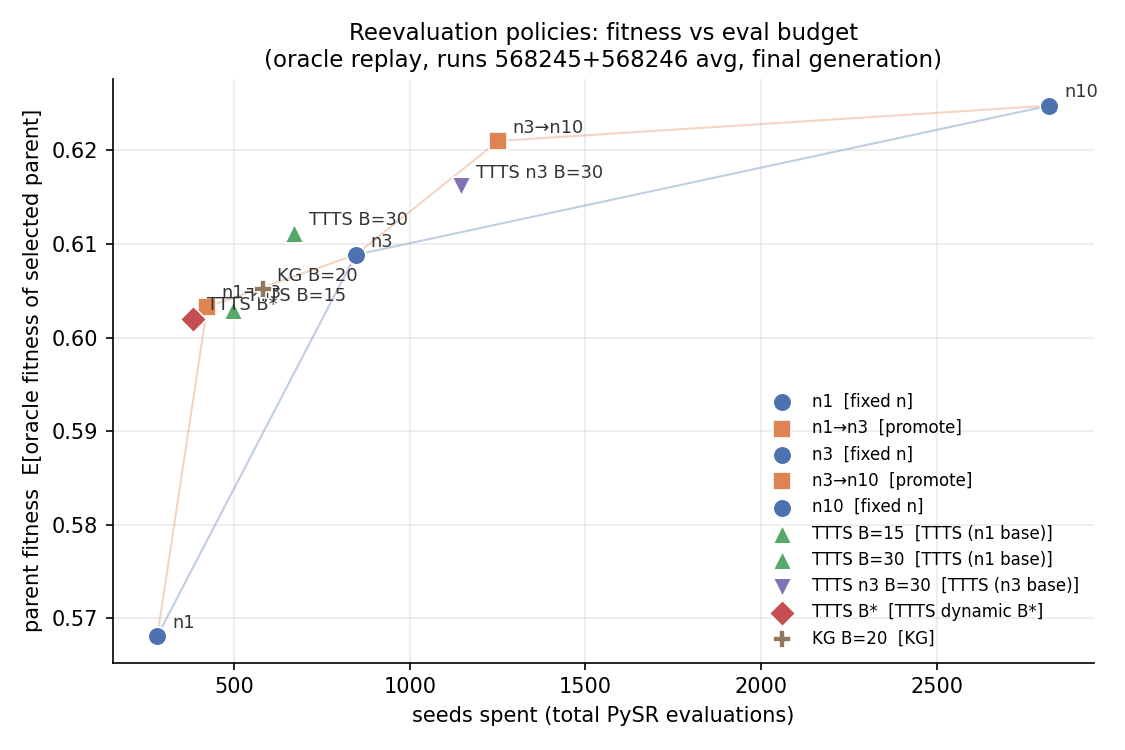
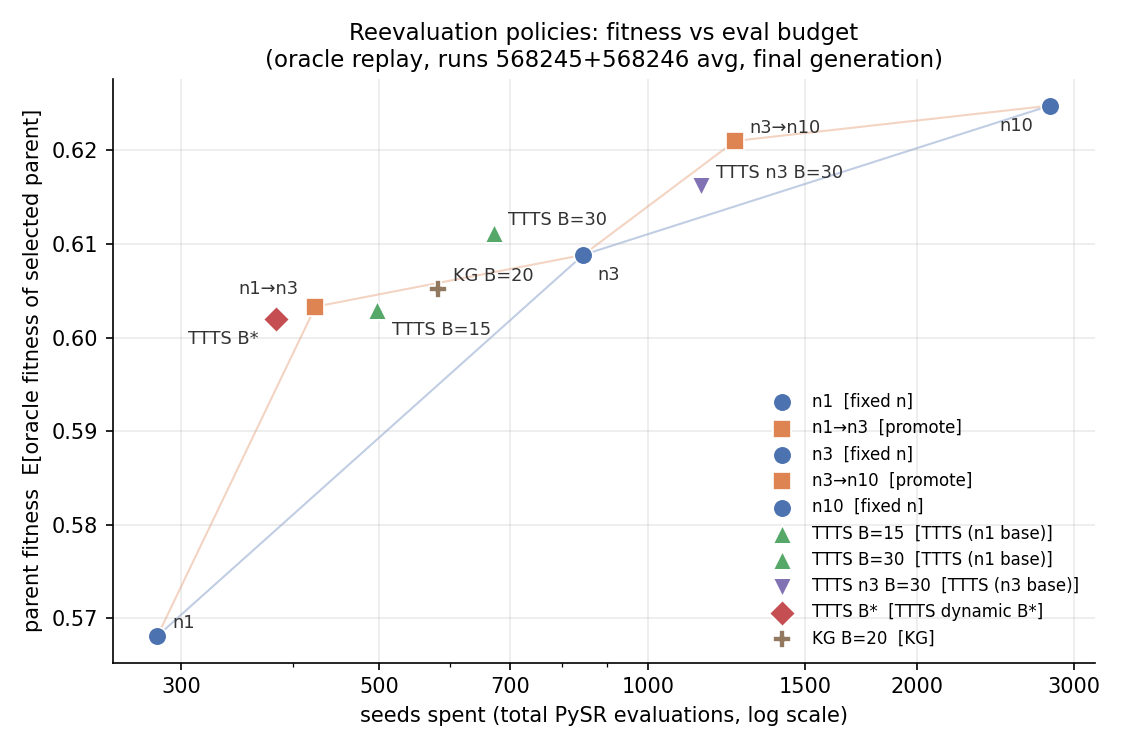
Log x-axis for reeval fitness plot

diff --git a/figures/plot_reeval_fitness_vs_seeds.py b/figures/plot_reeval_fitness_vs_seeds.py
@@ -27,6 +27,8 @@ POLICY_CAT = {
     "TTTS B*": "TTTS dynamic B*",
     "KG B=20": "KG",
 }
+OFFSETS = {"TTTS B*": (-8, -12), "n1->n3": (-8, 6), "TTTS B=15": (7, -12),
+           "KG B=20": (7, 4), "n3": (7, -12), "n10": (-8, -12)}
 PRETTY = {"n1->n3": "n1→n3", "n3->n10": "n3→n10"}
 
 fig, ax = plt.subplots(figsize=(7.5, 5))
@@ -36,15 +38,20 @@ for label, d in data.items():
     ax.scatter(d["seeds"], d["metric"], c=color, marker=marker, s=80, zorder=3,
                edgecolor="white", linewidth=0.8,
                label=f"{PRETTY.get(label, label)}  [{cat}]")
+    off = OFFSETS.get(label, (7, 4))
     ax.annotate(PRETTY.get(label, label), (d["seeds"], d["metric"]),
-                textcoords="offset points", xytext=(7, 4), fontsize=8.5, color="#333")
+                textcoords="offset points", xytext=off, fontsize=8.5, color="#333",
+                ha="right" if off[0] < 0 else "left")
 
 # connect fixed-n and promote chains as faint guides
 for chain, cat in ((["n1", "n3", "n10"], "fixed n"), (["n1", "n1->n3", "n3", "n3->n10", "n10"], "promote")):
     xs = [data[c]["seeds"] for c in chain]; ys = [data[c]["metric"] for c in chain]
     ax.plot(xs, ys, color=CATS[cat][0], lw=1, alpha=0.35, zorder=1)
 
-ax.set_xlabel("seeds spent (total PySR evaluations)")
+ax.set_xscale("log")
+ax.set_xticks([300, 500, 700, 1000, 1500, 2000, 3000])
+ax.get_xaxis().set_major_formatter(matplotlib.ticker.ScalarFormatter())
+ax.set_xlabel("seeds spent (total PySR evaluations, log scale)")
 ax.set_ylabel("parent fitness  E[oracle fitness of selected parent]")
 ax.set_title("Reevaluation policies: fitness vs eval budget\n(oracle replay, runs 568245+568246 avg, final generation)", fontsize=11)
 ax.grid(alpha=0.25)
